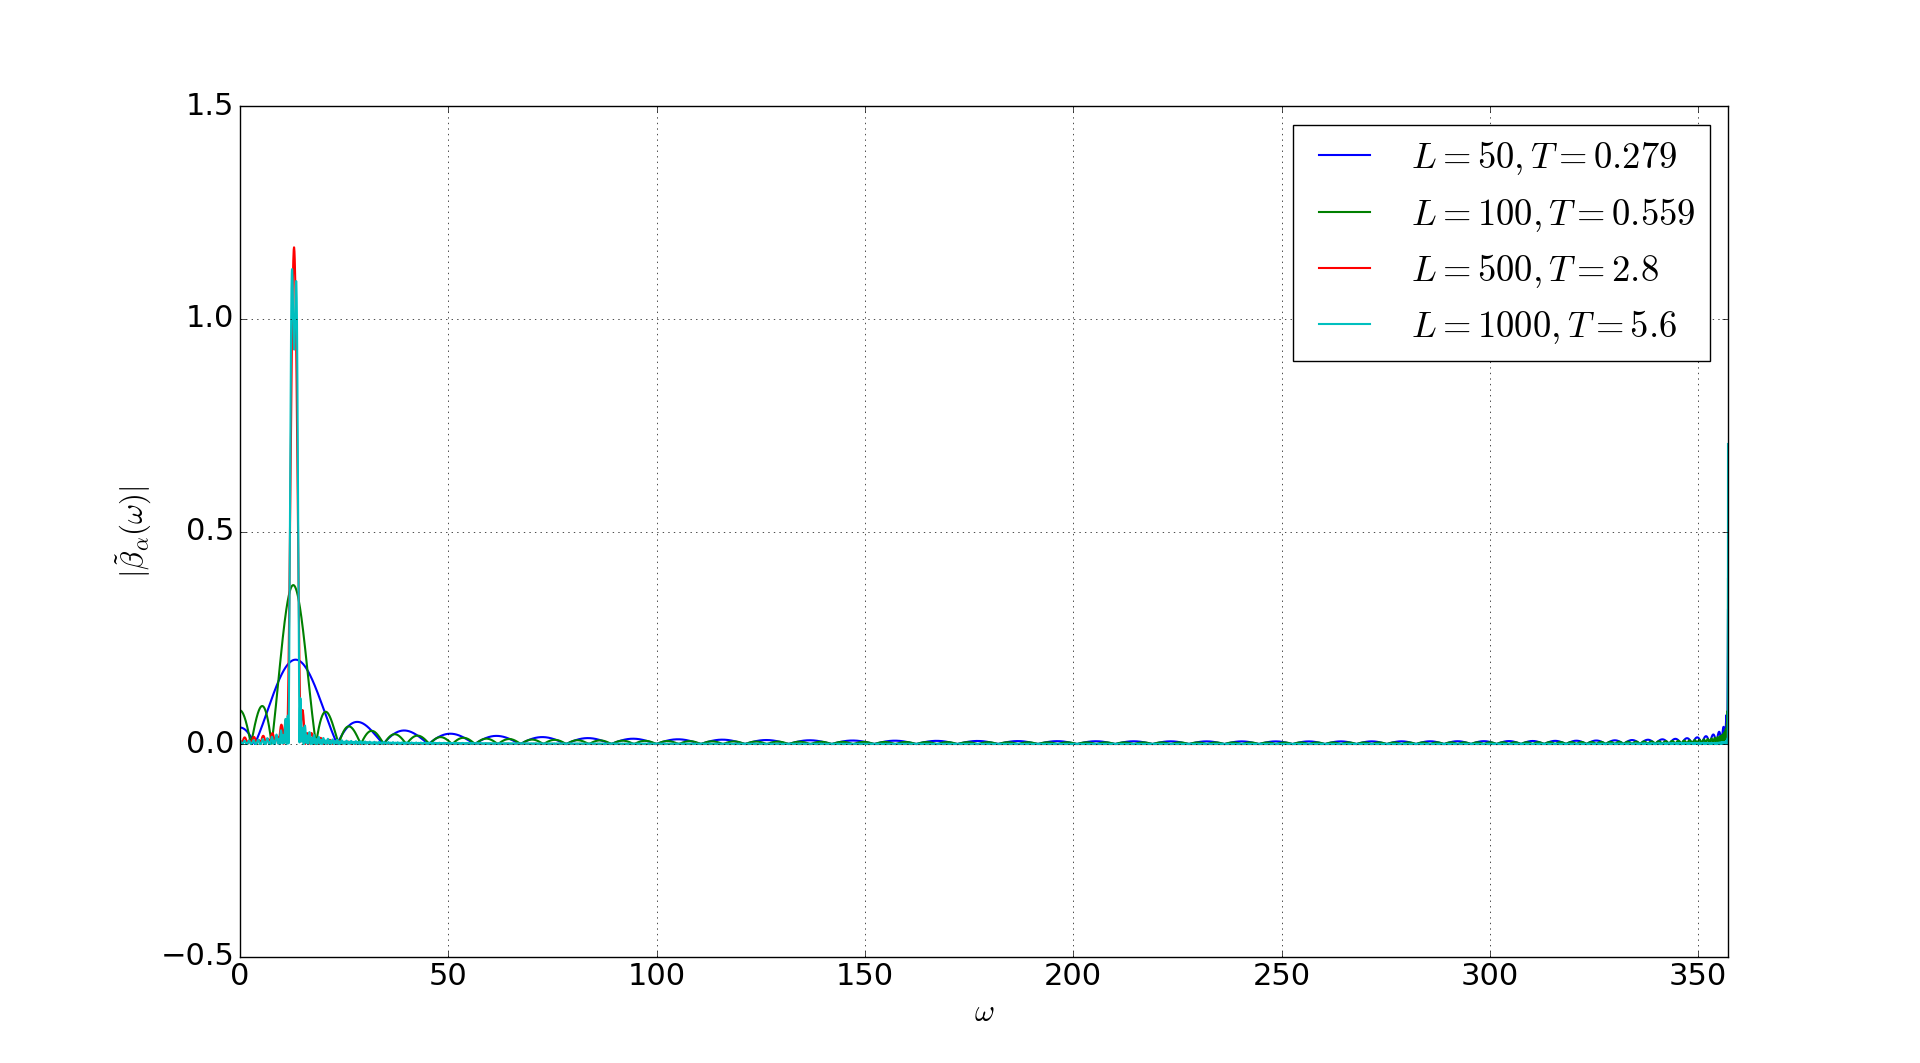
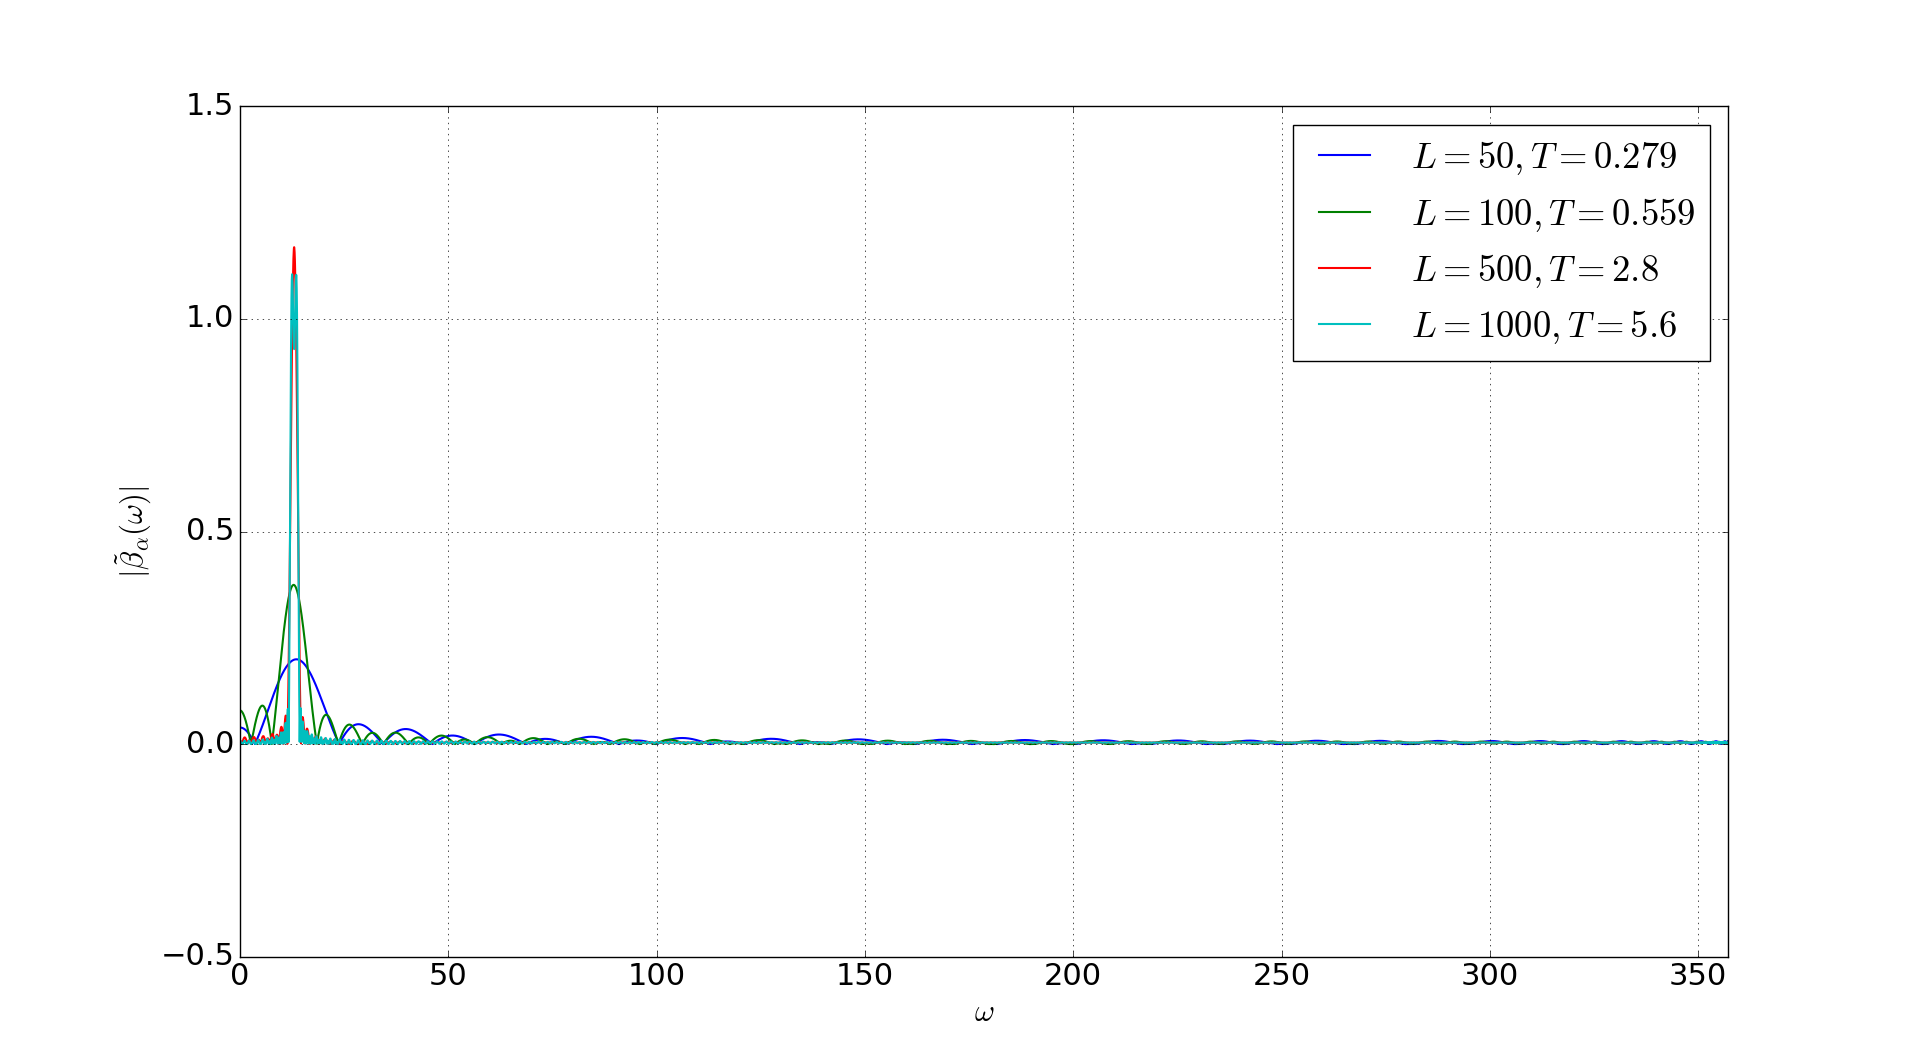
Modified implementation of q(omega) to Chebyshev polynomials; replaced plots

Changed region(s): [[0.125, 0.6209, 0.9062, 0.714]]

diff --git a/chebyshev_collocation.py b/chebyshev_collocation.py
@@ -7,19 +7,29 @@ Created on Fri Apr 19 18:47:48 2024
 
 from dff import *
 
-def chebyshev_nodes(a: float, b: float, N: int) -> np.array:
+def chebyshev_nodes2(a: float, b: float, N: int) -> np.array:
+    # chebyshev nodes in omega
     nodes = np.array([np.cos((2*k+1)/(2*N) * np.pi) for k in range(N)])
     nodes = (a+b)/2 + (b-a)/2 * nodes
+    return nodes
+
+def chebyshev_nodes(a: float, b: float, N: int) -> np.array:
+    # chebyshev nodes in omega^2
+    a2, b2 = a*a, b*b
+    nodes = np.array([np.cos((2*k+1)/(2*N) * np.pi) for k in range(N)])
+    nodes = (a2+b2)/2 + (a2-b2)/2 * nodes
+    nodes = np.sqrt(nodes)
     return nodes
 
 def compute_alpha(om_end: float, L: int, K: int, tau: float, target: Callable) -> np.array:
     mesh = chebyshev_nodes(0, om_end, K)
     Q = q_eval_mat(mesh, L, tau, cheb=True)
+    breakpoint()
     rhs = 1/tau * np.array(list(map(target, mesh)))
     if K==L:
         print(f"cond(Q) = {np.linalg.cond(Q)}, det(Q) = {np.linalg.det(Q)}")
-        # alpha = np.linalg.solve(Q, rhs)
-        alpha = np.linalg.lstsq(Q, rhs)[0]
+        alpha = np.linalg.solve(Q, rhs)
+        # alpha = np.linalg.lstsq(Q, rhs)[0]
         return alpha
     else:
         alpha = np.linalg.lstsq(Q, rhs)[0]
@@ -28,38 +38,40 @@ def compute_alpha(om_end: float, L: int, K: int, tau: float, target: Callable) -
     
 if __name__ == "__main__":
     om_min, om_max = 12, 14
-    # target = indicator(om_min, om_max)
-    target = gauss(13)
+    target = indicator(om_min, om_max)
+    # target = gauss(13)
     tau = 0.0056
     om_end= 2/tau
-    L = 1000
-    title = r"Chebyshev collocation, T = " + str(L * tau)[0:7] + r", $\omega_{end}$ = " + str(om_end)[0:7] + ", L = " + str(L) + f", target intervall ({om_min}, {om_max})"
+    title = r"Chebyshev collocation" + r", $\omega_{end}$ = " + str(om_end)[0:7] + f", target intervall ({om_min}, {om_max})"
     ax = prepare_plots(0, om_end, title=title)
     ax2 = prepare_plots(om_end-0.2, om_end, title=title)
+    for L in (100, 200):
+        T = tau*L
+        alpha = compute_alpha(om_end, L, L, tau, target)
+        Q1 = plot_beta(alpha, L, tau, 0, om_end, ax, label=f"colloc K=L={L} knots, T={T}", cheb=True)
+        Q2 = plot_beta(alpha, L, tau, om_end-0.2, om_end, ax2, label=f"colloc K=L={L} knots, T={T}", cheb=True)
     
-    alpha = compute_alpha(om_end, L, L, tau, target)
-    Q1 = plot_beta(alpha, L, tau, 0, om_end, ax, label=f"colloc K={L} knots", cheb=True)
-    Q2 = plot_beta(alpha, L, tau, om_end-0.2, om_end, ax2, label=f"colloc K={L} knots", cheb=True)
+    # alpha = compute_alpha(om_end, L, 2*L, tau, target)
+    # plot_beta(alpha, L, tau, 0, om_end, ax, label=f"colloc K={2*L} knots", cheb=True, Q=Q1)
+    # plot_beta(alpha, L, tau, om_end-0.2, om_end, ax2, label=f"colloc K={2*L} knots", cheb=True, Q=Q2)
     
-    alpha = compute_alpha(om_end, L, 2*L, tau, target)
-    plot_beta(alpha, L, tau, 0, om_end, ax, label=f"colloc K={2*L} knots", cheb=True, Q=Q1)
-    plot_beta(alpha, L, tau, om_end-0.2, om_end, ax2, label=f"colloc K={2*L} knots", cheb=True, Q=Q2)
+    # alpha = compute_alpha(om_end, L, 10*L, tau, target)
+    # plot_beta(alpha, L, tau, 0, om_end, ax, label=f"colloc K={10*L} knots", cheb=True, Q=Q1)
+    # plot_beta(alpha, L, tau, om_end-0.2, om_end, ax2, label=f"colloc K={10*L} knots", cheb=True, Q=Q2)
     
-    alpha = compute_alpha(om_end, L, 10*L, tau, target)
-    plot_beta(alpha, L, tau, 0, om_end, ax, label=f"colloc K={10*L} knots", cheb=True, Q=Q1)
-    plot_beta(alpha, L, tau, om_end-0.2, om_end, ax2, label=f"colloc K={10*L} knots", cheb=True, Q=Q2)
-    
-    alpha = compute_alpha(om_end, L, 20*L, tau, target)
-    plot_beta(alpha, L, tau, 0, om_end, ax, label=f"colloc K={20*L} knots", cheb=True, Q=Q1)
-    plot_beta(alpha, L, tau, om_end-0.2, om_end, ax2, label=f"colloc K={20*L} knots", cheb=True, Q=Q2)
+    # alpha = compute_alpha(om_end, L, 20*L, tau, target)
+    # plot_beta(alpha, L, tau, 0, om_end, ax, label=f"colloc K={20*L} knots", cheb=True, Q=Q1)
+    # plot_beta(alpha, L, tau, om_end-0.2, om_end, ax2, label=f"colloc K={20*L} knots", cheb=True, Q=Q2)
     
     alpha = fourier_indicator(om_min, om_max, L*tau)
     plot_beta(alpha, L, tau, 0, om_end, ax, label="Fourier")
     plot_beta(alpha, L, tau, om_end-0.2, om_end, ax2, label="Fourier")
     
-    plot_nodes(chebyshev_nodes(0, om_end, L), target, ax)
-    plot_nodes(chebyshev_nodes(0, om_end, L), target, ax2)
+    plot_nodes(chebyshev_nodes(0, om_end, 200), target, ax)
+    plot_nodes(chebyshev_nodes(0, om_end, 200), target, ax2)
     
+    ax.plot(x:=np.linspace(0, 40, num=10000), list(map(target, x)), "--", color="black", label=r"$\chi_{[\omega_{\min}, \omega_{\max}]}$")
+
     ax.legend()
     ax2.legend()
     plt.show()

diff --git a/dff.py b/dff.py
@@ -47,7 +47,7 @@ def q_eval_mat(omegas: np.array, L: int, tau: float, cheb: Optional[bool] = Fals
         return Q
         
 def plot_beta(alpha: Union[Callable, np.array], L: int, tau: float, start: float, 
-              end: float, ax: plt.axis, cheb: Optional[bool] = False, label: Optional[str] = "", 
+              end: float, ax: plt.axis, cheb: Optional[bool] = True, label: Optional[str] = "", 
               color: Optional[str]="", num: Optional[int] = 10000, Q: Optional[np.array] = None) -> np.array:
     if isinstance(alpha, FunctionType):
         alpha = np.array(list(map(lambda l: alpha(tau*l), range(L))))
@@ -62,16 +62,16 @@ def plot_beta(alpha: Union[Callable, np.array], L: int, tau: float, start: float
     return Q 
 
 def plot_nodes(nodes: np.array, target: Callable, ax: plt.axis, label: Optional[str]="", color: Optional[str]="black"):
-    ax.plot(nodes, list(map(target, nodes)), "X", color = color, label=label, markersize=12)
+    ax.plot(nodes, list(map(target, nodes)), "x", color = color, label=label, markersize=12)
 
 
 def prepare_plots(*ranges, title: Optional[str]="", xlabel: Optional[str]=r"$\omega$", 
                  ylabel: Optional[str]=r"$|\tilde{\beta}_{\alpha}(\omega)|$",
                  fontsize: Optional[int]=None, set_y_lim: Optional[bool]=True) -> Union[plt.axis, tuple[plt.axis]]:
     style.use("classic")
-    plt.rcParams["axes.formatter.offset_threshold"] = 5
+    plt.rcParams.update({'axes.formatter.offset_threshold': 5, 'lines.linewidth': 1.5})
     if fontsize:
-        plt.rcParams.update({'font.size': fontsize, 'lines.linewidth': 1.5})
+        plt.rcParams.update({'font.size': fontsize})
     
     if int(len(ranges))%2 != 0:
         raise ValueError(f"{len(ranges)} starts/ends provided. For last plot there is no end value!")

diff --git a/equidistant_plots.py b/equidistant_plots.py
@@ -7,6 +7,7 @@ Created on Sat Apr 27 17:42:46 2024
 
 from dff import * 
 from equidistant_collocation import compute_alpha
+from chebyshev_collocation import chebyshev_nodes
 
 
 tau = 0.0056
@@ -14,8 +15,8 @@ om_end = 2/tau
 
 om_min, om_max = 37, 45
 chi = indicator(om_min, om_max)
-title = r"Equidistant collocation $[\omega_{\min}, \omega_{\max}] = "+ f"[{om_min}, {om_max}]$"
-# title = ""
+# title = r"Equidistant collocation $[\omega_{\min}, \omega_{\max}] = "+ f"[{om_min}, {om_max}]$"
+title = ""
 ax = prepare_plots(0, om_end, title=title, fontsize=22, ylabel=r"$|\tilde{\beta}_{\vec{\alpha}}(\omega)|$")
 for L in (10, 25):
     T = tau * L 
@@ -31,13 +32,14 @@ ax.legend()
 
 
 L_max = 100
-# title = "cond(Q) equidistant collocation"
-title = ""
+title = "cond(Q) equidistant collocation"
+# title = ""
 ax2 = prepare_plots(5, L_max, title=title, xlabel="$L$", ylabel=r"$\mathrm{cond}(Q)$", set_y_lim=False, fontsize=22)
 Ls = range(5, L_max+1, 5)
 conds = []
 for L in Ls:
     Q = q_eval_mat(np.linspace(0, om_end, num=L), L, tau)
+    # Q = q_eval_mat(chebyshev_nodes(0, om_end, L), L, tau)
     conds.append(np.linalg.cond(Q))
 ax2.semilogy(Ls, conds, "r")
 

diff --git a/fourier_plots.py b/fourier_plots.py
@@ -14,8 +14,8 @@ om_end = 2/tau
 
 for om_min, om_max in [(3, 6), (12, 14)]:
     chi = indicator(om_min, om_max)
-    # title = r"Inverse Fourier transform method, $[\omega_{\min}, \omega_{\max}] = [" + str(om_min) + ", " + str(om_max) + "]$"
-    title = ""
+    title = r"Inverse Fourier transform method, $[\omega_{\min}, \omega_{\max}] = [" + str(om_min) + ", " + str(om_max) + "]$"
+    # title = ""
     ax, ax2, ax3 = prepare_plots(0, om_end, 0, 40, om_end-0.05, om_end, title=title, fontsize=22)
 
     for L in (50, 100, 500, 1000):

diff --git a/equidistant_collocation.py b/equidistant_collocation.py
@@ -9,7 +9,7 @@ from dff import *
 
 def compute_alpha(om_end: float, L: int, K: int, tau: float, target: Callable) -> np.array:
     mesh = np.linspace(0, om_end, num=K)
-    Q = q_eval_mat(mesh, L, tau, cheb=False)
+    Q = q_eval_mat(mesh, L, tau, cheb=True)
     rhs = 1/tau * np.array(list(map(target, mesh)))
     if K==L:
         print(f"cond(Q) = {np.linalg.cond(Q)}, det(Q) = {np.linalg.det(Q)}")
